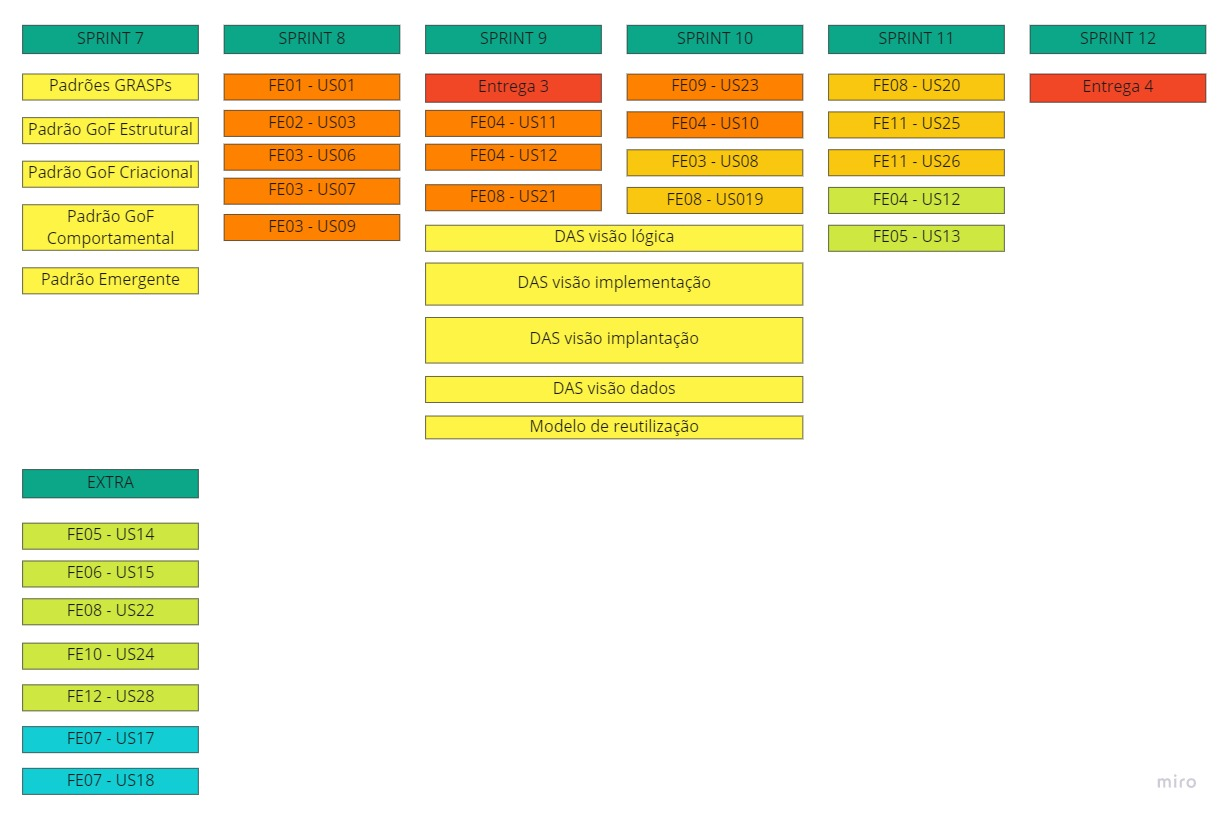
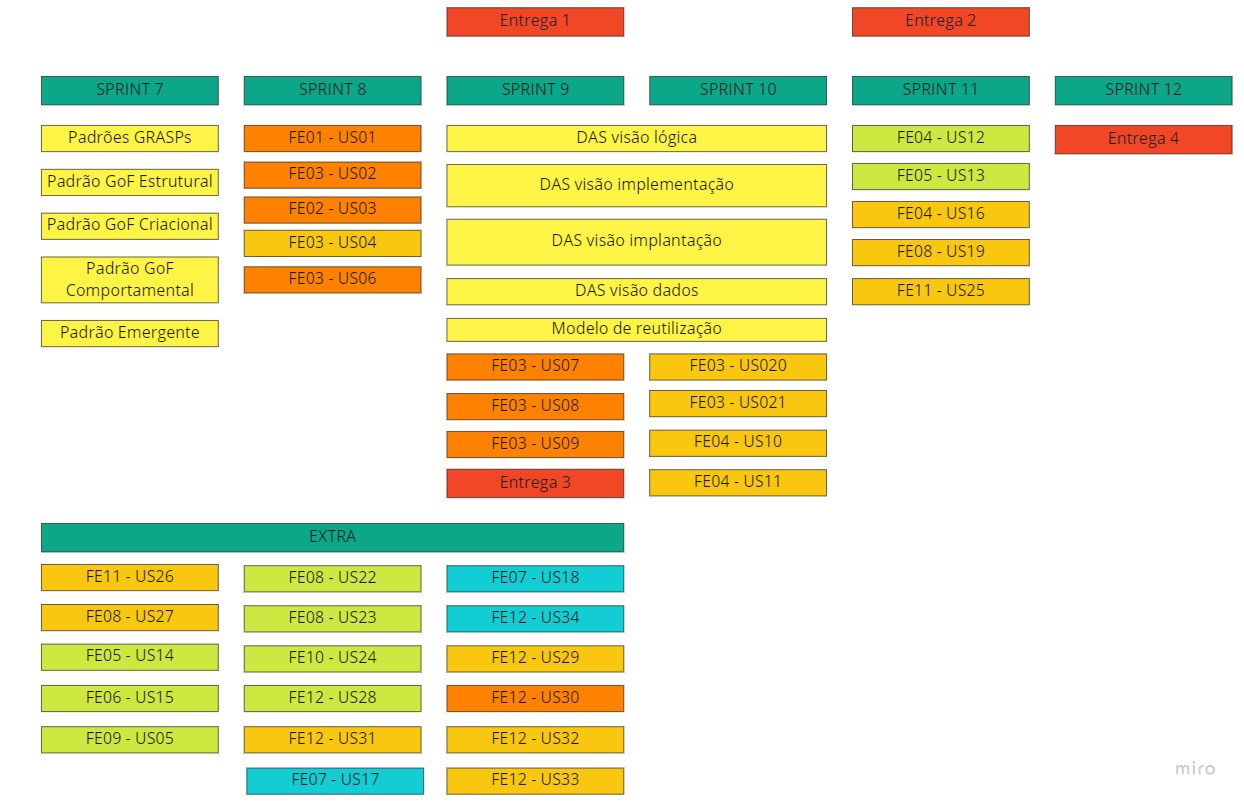
Correct roadmap

diff --git a/docs/Modelagem/2.3.ParticipacoesModelagem.md b/docs/Modelagem/2.3.ParticipacoesModelagem.md
@@ -8,7 +8,7 @@ Breve relato sobre as participações/contribuições de cada membro à entrega.
 | Cibele Goudinho | Validação dos Diagramas de Pacotes; Criação do Diagrama de Estados; Validação da Revisão da Priorização MoSCoW do Backlog; Guiou a definição dos papéis e ritos do Scrum + XP usados pela equipe; Criação do Roadmap de Desenvolvimento do Projeto.                                                                                        | Excelente                                                                      |
 | Felipe Boccardi | Validação do Diagrama de Classes; Criação dos Diagramas de Sequência;      Executou a fase de Validação do Protótipo de Alta Fidelidade; Ajuste do protótipo de alta fidelidade com os feedbacks da fase de validação; Revisão do Backlog do Produto.                                                                                      | Excelente                                                                      |
 | Isadora da Cruz | Executou a fase de Validação do Protótipo de Alta Fidelidade; Criação do Diagrama de Componentes; Validação dos Diagramas de Comunicação; Revisão do Backlog do Produto.                                                                                                                                                                   | Regular                                                                        |
-| Julia Farias    | Criação dos Diagramas de Pacotes; Validação dos Diagramas de Estados; Revisão da priorização MoSCoW do Backlog; Documentou as Histórias de Usuário no GitHub.                                                                                                                                                                              | Boa                                                                            |
+| Julia Farias    | Criação dos Diagramas de Pacotes; Validação dos Diagramas de Estados; Revisão da priorização MoSCoW do Backlog; Documentou as Histórias de Usuário no GitHub, planejamento da reunião de planning e validação da reunião de Restrospectiva(funções de PO):                                  | Boa                                                                            |
 | Luiz Henrique   | Refinamento dos Critérios de Aceitação; Validação do Roadmap de Desenvolvimento do Produto; Validação do Diagrama de Implantação; Validação do Diagrama de Atividades; Revisão do Backlog do Produto; Papel de Scrum Master; Documentação das decisões do grupo e das dailys; Planejamento da reunião de Retro.                                                                                                                                  | Regular                                                                        |
 | Sávio Cunha     | Validação da priorização MoSCoW; Validação do Diagrama de Componentes; Detalhamento do Diagrama de Comunicação; Documentação da fase de validação do Protótipo de Alta Fidelidade.                                                                                                                                                         | Ruim                                                                           |
 | Victor Buendia  | Guiou a definição dos papéis e ritos do Scrum + XP usados pela equipe; Detalhamento e refinamento dos Diagramas de Implantação; Criação dos Diagramas de Atividade; Revisão da Granularidade do Backlog; Revisão das Histórias de Usuário documentadas no GitHub; Criação da Tabela de Participação; Organização das demandas do Módulo 2. | Excelente                                                                      |

diff --git a/docs/Modelagem/2.2.IniciativasExtras.md b/docs/Modelagem/2.2.IniciativasExtras.md
@@ -315,7 +315,7 @@ _Imagem 32: Roadmap Semana 1-6_
 
 _Imagem 33: Roadmap Semana 7-12_
 
-#### Léxicos 
+### Léxicos 
 
 <p align="justify">&emsp;&emsp;Léxico é o conjunto dos vocábulos de uma língua, dispostos em ordem alfabética e com as respectivas significações. O objetivo é definir a noção e o impacto do símbolo na aplicação.</p>
 
@@ -404,6 +404,21 @@ Notificações |                                                                
 | Impacto     | **1-** O doador é notificado quando um de seus itens é doado  **2-** A notificação é gerada a partir do registro de doação   |
 
 
+### Documentação daily Sprints
+
+<p align="justify">&emsp;&emsp;As Dailys da equipe estãoo sendo realizadas diariamente via Telegram onde cada membro da equipe deve responder 4 perguntas sobre o andamento de suas atividades:
+
+- O que eu fiz desde a última Daily?
+
+- O que vou fazer até amanhã?
+
+- Quais são os impedimentos que estão me atrapalhando o andamento do meu trabalho? (Marque alguém que você acredita que possa te ajudar com esse problema.)
+
+- Quais atividades dessa sprint ainda preciso realizar?
+
+<p align="justify">&emsp;&emsp;Esta artefato visa reunir de maneira intuitiva e organizada os dados coletados nas Dailys da equipe:</p>
+
+[Registro Dailys](https://docs.google.com/spreadsheets/d/14c7agbEHBoryS6Nd4Bq-8rD-v3mqoQNe/edit?usp=sharing&ouid=115308633450486530905&rtpof=true&sd=true)
 
 ## 2.2.7 Referências
 
